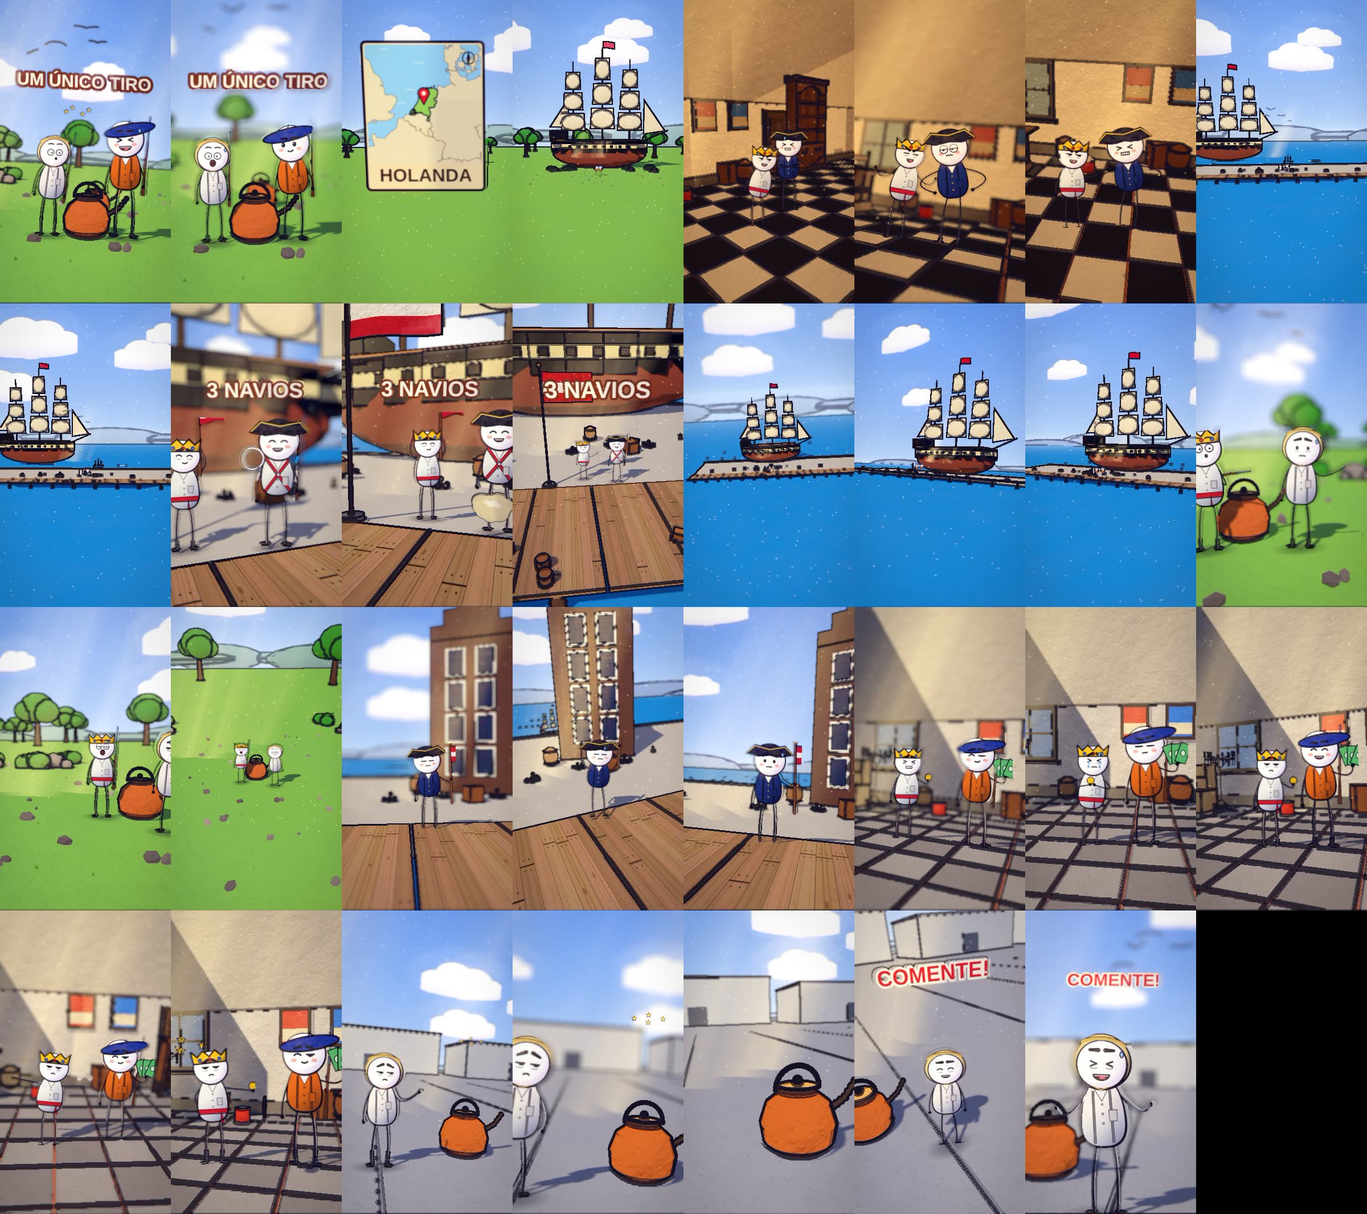
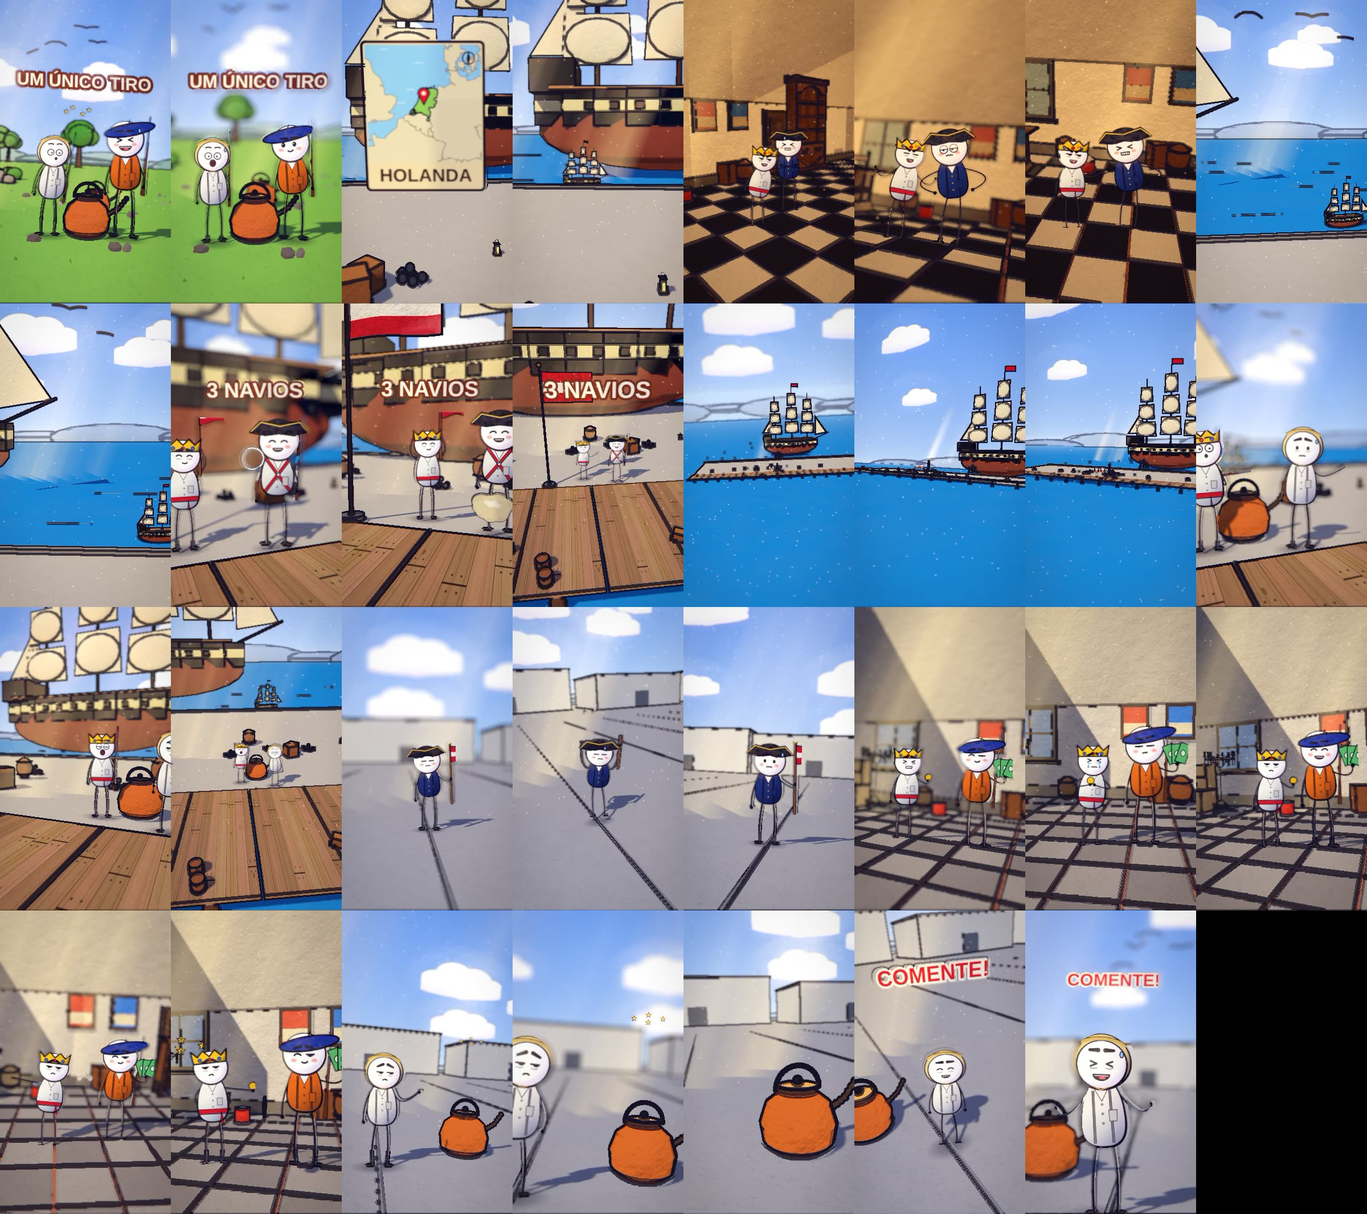
chaleira1784: variedade de cenario
Claude-Session: https://claude.ai/code/session_01HE8Dy2wiQov2uhW6ZYikBX

diff --git a/ferramenta-shorts/stories/chaleira1784/spec.js b/ferramenta-shorts/stories/chaleira1784/spec.js
@@ -12,7 +12,7 @@ const SPEC = {
     HOL: (v = 0, e = {}) => ({ _id: "hol", jacket: "#d9742a", pants: "#27408b", boots: "#1b1b1f", hat: "beret", cap: "#27408b", rifle: true, skin: ["#ffe2c2", "#f5c9a0", "#ecd0b6", "#c99067"][v % 4], ...(((v + 227) % 6 === 4 && true) ? { glasses: true } : {}), ...(([1, 5].includes((v + 227) % 6) && false) ? { beard: ['#3a2a1f', '#6b4a2a', '#8a8a86'][(v + 3) % 3] } : {}), ...((((v + 227) % 6 === 3) && true) ? { moustache: ['#4a3020', '#2a201a', '#8a8a86'][v % 3] } : {}), ...e }),
     COZ: (v = 0, e = {}) => ({ _id: "coz", jacket: "#f6f0e6", pants: "#3b3f52", boots: "#2a2218", hat: "bonnet", build: "stout", skin: ["#ffe2c2", "#f5c9a0", "#ecd0b6", "#c99067"][v % 4], ...(((v + 236) % 6 === 4 && true) ? { glasses: true } : {}), ...(([1, 5].includes((v + 236) % 6) && true) ? { beard: ['#3a2a1f', '#6b4a2a', '#8a8a86'][(v + 3) % 3] } : {}), ...((((v + 236) % 6 === 3) && true) ? { moustache: ['#4a3020', '#2a201a', '#8a8a86'][v % 3] } : {}), ...e }),
     MAR: (v = 0, e = {}) => ({ _id: "mar", jacket: "#d9742a", pants: "#27408b", boots: "#1b1b1f", hat: "beret", cap: "#27408b", skin: ["#ffe2c2", "#f5c9a0", "#ecd0b6", "#c99067"][v % 4], ...(((v + 224) % 6 === 4 && true) ? { glasses: true } : {}), ...(([1, 5].includes((v + 224) % 6) && true) ? { beard: ['#3a2a1f', '#6b4a2a', '#8a8a86'][(v + 3) % 3] } : {}), ...((((v + 224) % 6 === 3) && true) ? { moustache: ['#4a3020', '#2a201a', '#8a8a86'][v % 3] } : {}), ...e }) },
-  assets: ["buildings/shop", "cannon", "kit/coin", "kit/kettle", "kit/navio_fragata", "kit/room_europa_stone", "kit/room_holanda_stone", "mk/Barrel", "mk/Bed_Twin1", "mk/Bookcase_2", "mk/Cabinet", "mk/CandleStick_Stand", "mk/Chair_1", "mk/Chest_Wood", "mk/Nightstand_Shelf", "mk/Table_Large", "war/flagpole"],
+  assets: ["cannon", "kit/coin", "kit/kettle", "kit/navio_fragata", "kit/room_europa_stone", "kit/room_holanda_stone", "mk/Barrel", "mk/Bed_Twin1", "mk/Bookcase_2", "mk/Cabinet", "mk/CandleStick_Stand", "mk/Chair_1", "mk/Chest_Wood", "mk/Nightstand_Shelf", "mk/Table_Large", "war/flagpole"],
   kicks: [{ f: WS(6), a: 0.032 }, { f: WS(88), a: 0.032 }], flashes: [],
   shots: [
     S('b0', A[0], A[1] - 1, X_loc_campo, "day", { h: 2.3, d0: 9.8, d1: 8.8, az0: -6, az1: 8, punches: [{ f: WS(6), amt: 0.16, dur: 20 }], vary: false, hero: { hero: 'any', frame: 'medium', minH: 0.07, main: 2 }, shots: [WS(6), WS(6)], actors: [_MA(pp(X_loc_campo, "COZ", 0, -1.0, 1.3, "shock", { pose: 'react', inter: { k: 'nod', a: Math.round(A[0] + (A[1] - 1 - (A[0])) * 0.12), b: Math.round(A[0] + (A[1] - 1 - (A[0])) * 0.82), dir: 1, n: 2, ph: 0 } }), { over: { rifle: true } }), pp(X_loc_campo, "HOL", 0, 1.0, 1.0, "grin", { pose: 'talk', inter: { k: 'lean', a: Math.round(A[0] + (A[1] - 1 - (A[0])) * 0.2), b: Math.round(A[0] + (A[1] - 1 - (A[0])) * 0.9), dir: -1, n: 2, ph: 3.14 } })], props: [{ asset: "kit/kettle", at: [X_loc_campo + 0.0, 0.7], s: 1.15, drop: false }, { asset: "kit/kettle", at: [X_loc_campo + 0.0, -2.3], s: 1.0, drop: false }], fx: [{ k: 'stars', a: A[0] + 6, b: A[0] + 40, at: [X_loc_campo + 0.0, DK + 1.6, 2.5], s: 0.8 }, { k: 'birds', a: A[0], b: A[1] - 1, at: [X_loc_campo, DK + 4.5, -30], n: 4, dir: 1, off: 8 }, txt(X_loc_campo, WS(0, -2), A[1] - 1, "UM ÚNICO TIRO", '#fff6e0', '#7a3a1c', 4.5, { s: 1.5, up: 0.46 }), { k: 'flash', a: WS(6), b: WS(6) + 8, at: [X_loc_campo + -0.55, DK - 0.55, 1.4], s: 1.6 }, { k: 'puff', a: WS(6) + 3, b: WS(6) + 24, at: [X_loc_campo + -0.8, DK + 1.9, 1.4], s: 0.5 }, { k: 'flash', a: WS(6), b: WS(6) + 10, at: [X_loc_campo + 0.55, DK - 0.55, 1.7], s: 1.6 }] }),
@@ -22,7 +22,7 @@ const SPEC = {
     { ...{ ...S('b4', A[4], Math.round(A[4] + (A[5] - 1 + 1 - (A[4])) * 0.3) - 1, X, "day", { h: 6.0, d0: 123.4, d1: 117.5, el: 11, cx: 0.0, cz: -8.2, hero: { hero: 'none', wide: true }, vary: false, nocut: true, trans: 'dissolve', actors: [_MA(pp(X, "IMP", 0, -1.0, -0.4, "smug", { over: { hold: "flag" } }), { gests: [[WS(63) - 8, Math.max(WS(63) + 14, WS(69) - 5), 'lift'], [WS(69) - 8, WS(69) + 46, 'point']] }), pp(X, "AUS", 0, 1.0, 0.2, "grin")], props: [{ asset: "kit/navio_fragata", at: [X + 0.0, -18.2], s: 7.06, fixo: true, drop: false }, { asset: "war/flagpole", at: [X + -3.1, 0.2], s: 1.3 }], fx: [{ k: 'birds', a: A[4], b: A[5] - 1, at: [X, DK + 6.0, -30], n: 5, dir: 1, off: 8 }, txt(X, WS(61, -2), A[5] - 1, "3 NAVIOS", '#fff6e0', '#7a3a1c', 4.8, { s: 1.5, up: 0.42 }), { k: "ring", a: A[4] + 12, b: A[4] + 38, at: [X, DK + 0.5, 1.2], s: 1.1 }, { k: "dust", a: A[4] + 40, b: A[4] + 66, at: [X + 0.9, DK + 0.12, 1.0], s: 0.75 }] }), nocut: true }, cam: [{ f: A[4], at: [X + 0.0, DK + 2.2, 0.5], d: 8.5, az: -26, el: 2, fov: 44 }, { f: Math.round(A[4] + (A[5] - 1 + 1 - (A[4])) * 0.3) - 1, at: [X + 1.0, DK + 2.2, 0.5], d: 7.4, az: -14, el: 3, fov: 44 }], nocut: true, vary: false }, { ...{ ...S('b4_1', Math.round(A[4] + (A[5] - 1 + 1 - (A[4])) * 0.3), Math.round(A[4] + (A[5] - 1 + 1 - (A[4])) * 0.55) - 1, X, "day", { h: 6.0, d0: 123.4, d1: 117.5, el: 11, cx: 0.0, cz: -8.2, hero: { hero: 'none', wide: true }, vary: false, nocut: true, trans: 'cut', actors: [_MA(pp(X, "IMP", 0, -1.0, -0.4, "smug", { over: { hold: "flag" } }), { gests: [[WS(63) - 8, Math.max(WS(63) + 14, WS(69) - 5), 'lift'], [WS(69) - 8, WS(69) + 46, 'point']] }), pp(X, "AUS", 0, 1.0, 0.2, "grin")], props: [{ asset: "kit/navio_fragata", at: [X + 0.0, -18.2], s: 7.06, drop: false, fixo: true, drop: false }, { asset: "war/flagpole", at: [X + -3.1, 0.2], s: 1.3, drop: false }], fx: [{ k: 'birds', a: A[4], b: A[5] - 1, at: [X, DK + 6.0, -30], n: 5, dir: 1, off: 8 }, txt(X, WS(61, -2), A[5] - 1, "3 NAVIOS", '#fff6e0', '#7a3a1c', 4.8, { s: 1.5, up: 0.42 }), { k: "ring", a: A[4] + 12, b: A[4] + 38, at: [X, DK + 0.5, 1.2], s: 1.1 }, { k: "dust", a: A[4] + 40, b: A[4] + 66, at: [X + 0.9, DK + 0.12, 1.0], s: 0.75 }] }), nocut: true }, cam: [{ f: Math.round(A[4] + (A[5] - 1 + 1 - (A[4])) * 0.3), at: [X + -6.0, DK + 1.8, 0.0], d: 11, az: 30, el: 5, fov: 46 }, { f: Math.round(A[4] + (A[5] - 1 + 1 - (A[4])) * 0.55) - 1, at: [X + 4.0, DK + 1.8, 0.0], d: 11, az: 18, el: 5, fov: 46, ease: "lin" }], nocut: true, vary: false, glide: true }, { ...{ ...S('b4_2', Math.round(A[4] + (A[5] - 1 + 1 - (A[4])) * 0.55), A[5] - 1, X, "day", { h: 6.0, d0: 123.4, d1: 117.5, el: 11, cx: 0.0, cz: -8.2, hero: { hero: 'none', wide: true }, vary: false, nocut: true, trans: 'cut', actors: [_MA(pp(X, "IMP", 0, -1.0, -0.4, "smug", { over: { hold: "flag" } }), { gests: [[WS(63) - 8, Math.max(WS(63) + 14, WS(69) - 5), 'lift'], [WS(69) - 8, WS(69) + 46, 'point']] }), pp(X, "AUS", 0, 1.0, 0.2, "grin")], props: [{ asset: "kit/navio_fragata", at: [X + 0.0, -18.2], s: 7.06, drop: false, fixo: true, drop: false }, { asset: "war/flagpole", at: [X + -3.1, 0.2], s: 1.3, drop: false }], fx: [{ k: 'birds', a: A[4], b: A[5] - 1, at: [X, DK + 6.0, -30], n: 5, dir: 1, off: 8 }, txt(X, WS(61, -2), A[5] - 1, "3 NAVIOS", '#fff6e0', '#7a3a1c', 4.8, { s: 1.5, up: 0.42 }), { k: "ring", a: A[4] + 12, b: A[4] + 38, at: [X, DK + 0.5, 1.2], s: 1.1 }, { k: "dust", a: A[4] + 40, b: A[4] + 66, at: [X + 0.9, DK + 0.12, 1.0], s: 0.75 }] }), nocut: true }, cam: [{ f: Math.round(A[4] + (A[5] - 1 + 1 - (A[4])) * 0.55), at: [X + 0.0, DK + 1.4, 0.0], d: 15, az: 8, el: 12, fov: 48 }, { f: A[5] - 1, at: [X + 0.0, DK + 1.0, -3.0], d: 34, az: -16, el: 30, fov: 48 }], nocut: true, vary: false, glide: true },
     S('b5', A[5], A[6] - 1, X, "day", { h: 6.0, d0: 123.4, d1: 117.5, az0: 16, az1: 30, cx: 0.0, cz: -8.2, punches: [{ f: WS(83), amt: 0.16, dur: 20 }], vary: false, hero: { hero: 'any', frame: 'medium', minH: 0.07, main: 2 }, trans: 'dissolve', shots: [WS(83)], actors: [_MA(_MA(pp(X, "MAR", 0, -1.0, 1.3, "stern", { pose: 'talk', inter: { k: 'lunge', a: Math.round(A[5] + (A[6] - 1 - (A[5])) * 0.12), b: Math.round(A[5] + (A[6] - 1 - (A[5])) * 0.82), dir: 1, n: 2, ph: 0 } }), { over: { rifle: true } }), { gests: [[WS(81) - 8, Math.max(WS(81) + 14, WS(83) - 5), 'cross']] }), pp(X, "MAR", 1, 1.0, 1.0, "angry", { pose: 'talk', inter: { k: 'nod', a: Math.round(A[5] + (A[6] - 1 - (A[5])) * 0.2), b: Math.round(A[5] + (A[6] - 1 - (A[5])) * 0.9), dir: -1, n: 2, ph: 3.14 } })], props: [{ asset: "cannon", at: [X + 3.0, 0.6], s: 2.2 }, { asset: "kit/navio_fragata", at: [X + 12, -32], s: 7.06, drop: false }], fx: [{ k: 'burst', a: A[5] + 60, at: [X + -1.0, DK + 1.8, 3.2], s: 1.2 }, { k: 'flash', a: WS(83), b: WS(83) + 10, at: [X + 0.55, DK - 0.55, 1.7], s: 1.6 }] }),
     { ...{ ...S('b6', A[6], Math.round(A[6] + (A[7] - 1 + 1 - (A[6])) * 0.3) - 1, X, "day", { h: 2.6, d0: 12.1, d1: 11.5, el: 11, fov: 46, az0: -38, az1: 32, cx: 0.0, cz: -0.6, punches: [{ f: WS(88), amt: 0.16, dur: 20 }], hero: { hero: 'none', wide: true }, vary: false, nocut: true, trans: 'dissolve', shots: [WS(88)], actors: [_MA(pp(X, "IMP", 0, -1.0, -0.4, "surprised"), { over: { rifle: true } }), pp(X, "COZ", 0, 1.0, 0.2, "scared")], props: [{ asset: "kit/kettle", at: [X + 0.0, -1.2], s: 1.2, fixo: true, drop: false }, { asset: "kit/navio_fragata", at: [X + -15, -36], s: 7.06, drop: false }], fx: [{ k: 'birds', a: A[6], b: A[7] - 1, at: [X, DK + 4.5, -30], n: 4, dir: -1, off: 8 }, { k: 'burst', a: A[6] + 20, at: [X + -1.0, DK + 1.8, 3.2], s: 1.2 }, { k: "puff", a: A[6] + 26, b: A[6] + 52, at: [X + 0.9, DK + 0.12, 1.0], s: 0.75 }, { k: 'burst', a: WS(88), b: WS(88) + 22, at: [X + -1.0, DK + 1.8, 3.0], s: 1.7 }, { k: 'flash', a: WS(88), b: WS(88) + 10, at: [X + 0.55, DK - 0.55, 1.7], s: 1.6 }] }), nocut: true }, cam: [{ f: A[6], at: [X + 0.0, DK + 2.2, 0.5], d: 8.5, az: -26, el: 2, fov: 44 }, { f: Math.round(A[6] + (A[7] - 1 + 1 - (A[6])) * 0.3) - 1, at: [X + 1.0, DK + 2.2, 0.5], d: 7.4, az: -14, el: 3, fov: 44 }], nocut: true, vary: false }, { ...{ ...S('b6_1', Math.round(A[6] + (A[7] - 1 + 1 - (A[6])) * 0.3), Math.round(A[6] + (A[7] - 1 + 1 - (A[6])) * 0.55) - 1, X, "day", { h: 2.6, d0: 12.1, d1: 11.5, el: 11, fov: 46, az0: -38, az1: 32, cx: 0.0, cz: -0.6, punches: [{ f: WS(88), amt: 0.16, dur: 20 }], hero: { hero: 'none', wide: true }, vary: false, nocut: true, trans: 'cut', shots: [WS(88)], actors: [_MA(pp(X, "IMP", 0, -1.0, -0.4, "surprised"), { over: { rifle: true } }), pp(X, "COZ", 0, 1.0, 0.2, "scared")], props: [{ asset: "kit/kettle", at: [X + 0.0, -1.2], s: 1.2, drop: false, fixo: true, drop: false }, { asset: "kit/navio_fragata", at: [X + -15, -36], s: 7.06, drop: false }], fx: [{ k: 'birds', a: A[6], b: A[7] - 1, at: [X, DK + 4.5, -30], n: 4, dir: -1, off: 8 }, { k: 'burst', a: A[6] + 20, at: [X + -1.0, DK + 1.8, 3.2], s: 1.2 }, { k: "puff", a: A[6] + 26, b: A[6] + 52, at: [X + 0.9, DK + 0.12, 1.0], s: 0.75 }, { k: 'burst', a: WS(88), b: WS(88) + 22, at: [X + -1.0, DK + 1.8, 3.0], s: 1.7 }, { k: 'flash', a: WS(88), b: WS(88) + 10, at: [X + 0.55, DK - 0.55, 1.7], s: 1.6 }] }), nocut: true }, cam: [{ f: Math.round(A[6] + (A[7] - 1 + 1 - (A[6])) * 0.3), at: [X + -6.0, DK + 1.8, 0.0], d: 11, az: 30, el: 5, fov: 46 }, { f: Math.round(A[6] + (A[7] - 1 + 1 - (A[6])) * 0.55) - 1, at: [X + 4.0, DK + 1.8, 0.0], d: 11, az: 18, el: 5, fov: 46, ease: "lin" }], nocut: true, vary: false, glide: true }, { ...{ ...S('b6_2', Math.round(A[6] + (A[7] - 1 + 1 - (A[6])) * 0.55), A[7] - 1, X, "day", { h: 2.6, d0: 12.1, d1: 11.5, el: 11, fov: 46, az0: -38, az1: 32, cx: 0.0, cz: -0.6, punches: [{ f: WS(88), amt: 0.16, dur: 20 }], hero: { hero: 'none', wide: true }, vary: false, nocut: true, trans: 'cut', shots: [WS(88)], actors: [_MA(pp(X, "IMP", 0, -1.0, -0.4, "surprised"), { over: { rifle: true } }), pp(X, "COZ", 0, 1.0, 0.2, "scared")], props: [{ asset: "kit/kettle", at: [X + 0.0, -1.2], s: 1.2, drop: false, fixo: true, drop: false }, { asset: "kit/navio_fragata", at: [X + -15, -36], s: 7.06, drop: false }], fx: [{ k: 'birds', a: A[6], b: A[7] - 1, at: [X, DK + 4.5, -30], n: 4, dir: -1, off: 8 }, { k: 'burst', a: A[6] + 20, at: [X + -1.0, DK + 1.8, 3.2], s: 1.2 }, { k: "puff", a: A[6] + 26, b: A[6] + 52, at: [X + 0.9, DK + 0.12, 1.0], s: 0.75 }, { k: 'burst', a: WS(88), b: WS(88) + 22, at: [X + -1.0, DK + 1.8, 3.0], s: 1.7 }, { k: 'flash', a: WS(88), b: WS(88) + 10, at: [X + 0.55, DK - 0.55, 1.7], s: 1.6 }] }), nocut: true }, cam: [{ f: Math.round(A[6] + (A[7] - 1 + 1 - (A[6])) * 0.55), at: [X + 0.0, DK + 1.4, 0.0], d: 15, az: 8, el: 12, fov: 48 }, { f: A[7] - 1, at: [X + 0.0, DK + 1.0, -3.0], d: 34, az: -16, el: 30, fov: 48 }], nocut: true, vary: false, glide: true },
-    S('b7', A[7], A[8] - 1, X, "day", { h: 2.5, d0: 11.4, d1: 10.2, az0: -14, az1: 4, vary: false, hero: { hero: 'any', frame: 'medium', minH: 0.07, main: 1 }, trans: 'dissolve', actors: [_MA(pp(X, "GEN", 0, 0.0, 1.3, "scared", { over: { hold: "flag" } }), { gests: [[WS(106) - 8, WS(106) + 46, 'up']] })], props: [{ asset: "buildings/shop", at: [X + 4.8, -11.0], s: 1.05, ry: -0.35, drop: false }], fx: [{ k: 'stars', a: WS(106) + 4, b: WS(106) + 34, at: [X + 0.0, DK + 3.0, 1.3], s: 0.6 }] }),
+    S('b7', A[7], A[8] - 1, X_loc_patio, "day", { h: 2.5, d0: 11.4, d1: 10.2, az0: -14, az1: 4, vary: false, hero: { hero: 'any', frame: 'medium', minH: 0.07, main: 1 }, trans: 'dissolve', actors: [_MA(pp(X_loc_patio, "GEN", 0, 0.0, 1.3, "scared", { over: { hold: "flag" } }), { gests: [[WS(106) - 8, WS(106) + 46, 'up']] })], fx: [{ k: 'stars', a: WS(106) + 4, b: WS(106) + 34, at: [X_loc_patio + 0.0, DK + 3.0, 1.3], s: 0.6 }] }),
     S('b8', A[8], A[9] - 1, X_hall, "day", { h: 2.3, d0: 9.8, d1: 8.8, az0: 10, az1: 4, punches: [{ f: WS(132), amt: 0.11, dur: 20 }], vary: false, hero: { hero: 'any', frame: 'medium', minH: 0.07, main: 2 }, trans: 'dissolve', actors: [_MA(_MA(pp(X_hall, "IMP", 0, -1.0, 1.3, "sad", { over: { hold: "coin" }, inter: { k: 'step', a: Math.round(A[8] + (A[9] - 1 - (A[8])) * 0.12), b: Math.round(A[8] + (A[9] - 1 - (A[8])) * 0.82), dir: 1, n: 2, ph: 0 } }), { gests: [[WS(132) - 8, Math.max(WS(132) + 14, WS(136) - 5), 'push'], [WS(136) - 8, WS(136) + 46, 'reach']] }), { inters: [{ k: 'shove', a: WS(132) - 10, b: WS(132) + 24, dir: 1, n: 1, ph: 0 }] }), _MA(pp(X_hall, "HOL", 0, 1.0, 1.0, "smug", { over: { hold: "money" }, inter: { k: 'nod', a: Math.round(A[8] + (A[9] - 1 - (A[8])) * 0.2), b: Math.round(A[8] + (A[9] - 1 - (A[8])) * 0.9), dir: -1, n: 2, ph: 3.14 } }), { inters: [{ k: 'stagger', a: WS(132) - 6, b: WS(132) + 32, dir: 1, n: 1, ph: 0 }] })], props: [{ asset: "kit/room_europa_stone", at: [X_hall, 0], s: 1, drop: false }, { asset: "mk/Cabinet", at: [X_hall + -7.2, -3.3], s: 2.3, drop: false }, { asset: "mk/Bed_Twin1", at: [X_hall + 7.0, -2.4], s: 2.1, drop: false }, { asset: "mk/Nightstand_Shelf", at: [X_hall + 4.6, -3.2], s: 2.2, drop: false }, { asset: "mk/CandleStick_Stand", at: [X_hall + -4.8, -2.8], s: 2.2, drop: false }, { asset: "mk/Barrel", at: [X_hall + -7.4, 0.8], s: 2.0, drop: false }, { asset: 'kit/coin', a: WS(136) - 2, b: WS(136) + 50, at: [X_hall + 0.25, 1.9], y: (f) => DK + 1.5 + 0.25 * Math.sin(f * 0.2), spinY: 2, s: 0.35, drop: false }], fx: [{ k: "stars", a: WS(136), b: WS(136) + 28, at: [X_hall + -1.0, DK + 0.5, 2.5], s: 1.1 }, { k: 'puff', a: WS(132), b: WS(132) + 20, at: [X_hall + 0.0, DK + 1.8, 1.7], s: 0.9 }] }),
     S('b9', A[9], Math.round(A[9] + (A[10] - 1 + 1 - (A[9])) * 0.36) - 1, X_loc_patio, "day", { h: 2.5, d0: 8.4, d1: 8.0, az0: -32, az1: -18, cx: 1.2, cz: 0.1, hero: { hero: 'any', frame: 'medium', minH: 0.07, main: 1 }, trans: 'dissolve', actors: [pp(X_loc_patio, "COZ", 0, 0.0, 1.3, "sad", { pose: 'talk' })], props: [{ asset: "kit/kettle", at: [X_loc_patio + 2.4, 0.2], s: 1.2, fixo: true, drop: false }], fx: [{ k: 'stars', a: A[9] + 6, b: A[9] + 40, at: [X_loc_patio + 2.4, DK + 1.6, 0.7], s: 0.8 }] }), { ...S('b9_d', Math.round(A[9] + (A[10] - 1 + 1 - (A[9])) * 0.36), Math.round(A[9] + (A[10] - 1 + 1 - (A[9])) * 0.6) - 1, X_loc_patio, "day", { h: 2.5, d0: 8.4, d1: 8.0, az0: -32, az1: -18, cx: 1.2, cz: 0.1, hero: { hero: 'none', detalhe: true }, trans: 'cut', actors: [pp(X_loc_patio, "COZ", 0, 0.0, 1.3, "sad", { pose: 'stand' })], props: [{ asset: "kit/kettle", at: [X_loc_patio + 2.4, 0.2], s: 1.2, drop: false, fixo: true, drop: false }], fx: [{ k: 'stars', a: A[9] + 6, b: A[9] + 40, at: [X_loc_patio + 2.4, DK + 1.6, 0.7], s: 0.8 }] }), cam: [{ f: Math.round(A[9] + (A[10] - 1 + 1 - (A[9])) * 0.36), at: [X_loc_patio + 2.4, DK + 0.9, 0.2], d: 5.86, az: -14, el: 7, fov: 44 }, { f: Math.round(A[9] + (A[10] - 1 + 1 - (A[9])) * 0.6) - 1, at: [X_loc_patio + 2.4, DK + 0.9, 0.2], d: 5.17, az: -8, el: 6, fov: 44 }], nocut: true, vary: false, glide: true, glideN: 34 }, { ...S('b9_v', Math.round(A[9] + (A[10] - 1 + 1 - (A[9])) * 0.6), A[10] - 1, X_loc_patio, "day", { h: 2.5, d0: 8.4, d1: 8.0, az0: -32, az1: -18, cx: 1.2, cz: 0.1, hero: { hero: 'any', frame: 'medium', minH: 0.07, main: 1 }, trans: 'cut', actors: [pp(X_loc_patio, "COZ", 0, 0.0, 1.3, "sad", { pose: 'talk' })], props: [{ asset: "kit/kettle", at: [X_loc_patio + 2.4, 0.2], s: 1.2, drop: false, fixo: true, drop: false }], fx: [{ k: 'stars', a: A[9] + 6, b: A[9] + 40, at: [X_loc_patio + 2.4, DK + 1.6, 0.7], s: 0.8 }] }), glide: true, glideN: 34 },
     S('b10', A[10], A[11] - 1, X_loc_patio, "day", { h: 2.4, d0: 6.4, d1: 5.6, az0: -6, az1: 8, hero: { hero: 'any', frame: 'medium', minH: 0.07, main: 1 }, trans: 'dissolve', actors: [pp(X_loc_patio, "COZ", 0, 0.0, 1.3, "grin", { pose: 'talk' })], props: [{ asset: "kit/kettle", at: [X_loc_patio + -1.7, -0.5], s: 1.3, drop: false }], fx: [{ k: 'stars', a: A[10] + 6, b: A[10] + 40, at: [X_loc_patio + -1.7, DK + 1.6, 0.0], s: 0.8 }, { k: 'birds', a: A[10], b: A[11] - 1, at: [X_loc_patio, DK + 6.0, -30], n: 5, dir: -1, off: 8 }, txt(X_loc_patio, WS(147, -2), A[11] - 1, "COMENTE!", '#d8282f', '#fff6e0', 4.6, { s: 1.5, up: 0.55 })] })

diff --git a/ferramenta-shorts/stories/chaleira1784/cronograma.md b/ferramenta-shorts/stories/chaleira1784/cronograma.md
@@ -1,6 +1,6 @@
 # CRONOGRAMA - Guerras Inusitadas EP 10 - A Guerra da Chaleira
 
-Gerado em 24/11 16:42 | 11 cenas | metricas: acoes_encenadas 100%, acoes_chave_com_efeito 100%, explicacoes_cobertas 100%, cenario_e_epoca_ok 100%
+Gerado em 24/11 16:43 | 11 cenas | metricas: acoes_encenadas 100%, acoes_chave_com_efeito 100%, explicacoes_cobertas 100%, cenario_e_epoca_ok 100%
 
 ## 1. Plano de cenas (o que cada frase vai mostrar)
 
@@ -13,7 +13,7 @@ b3 | simples | harbor | wide | IMP | - | navio_fragata, navios de guerra ao fund
 b4 | chave | harbor | crowd | IMP, AUS | - | navio_fragata, flagpole | corpo: tropa/personagens encenam a batalha; emissao: claroes de tiro, fumaca e poeira; luz: clarao; camera: 4 cameras em | O maior levava a bandeira do imperador e seguia na frente.
 b5 | simples | harbor | two | MAR, MAR | - | cannon, navio_fragata | - | Acontece que o navio de guerra holandês Dolfijn estava esperando, e di
 b6 | chave | harbor | orbit | IMP, COZ | - | kettle, navios de guerra ao fundo, no tamanho real | corpo: tropa/personagens encenam a batalha; emissao: claroes de tiro, fumaca e poeira; luz: clarao; camera: 4 cameras em | A bala acertou e destruiu uma chaleira de sopa no convés do navio do i
-b7 | simples | harbor | group | GEN | - | - | - | O navio austríaco se rendeu na hora, sem trocar nem um tiro a mais.
+b7 | simples | loc_patio | group | GEN | - | - | - | O navio austríaco se rendeu na hora, sem trocar nem um tiro a mais.
 b8 | simples | interior pedra | two | IMP, HOL | - | - | - | Depois, a França mediou a paz, em mil setecentos e oitenta e cinco. O 
 b9 | simples | loc_patio | group | COZ | - | kettle | - | O único prejuízo do dia foi o almoço.
 b10 | simples | loc_patio | close | COZ | - | - | - | Agora não deixe de comentar: qual deve ser o tema do próximo vídeo?
@@ -25,7 +25,7 @@ N | Etapa | O que confere | Estado | Proximo passo
 1 | Roteiro e 4 folhas | folha 1 (roteiro), 2 (producao), 3 (acao) e 4 (pesquisa) geradas; triagem de cada frase | FEITO | 
 2 | Pesquisa de campo | cada item do raio-X com referencia; quadro de prints olhado (9/16 itens) | PENDENTE | python3 pesquisar.py chaleira1784
 3 | Modelagem do que falta | todo objeto das cenas existe na biblioteca 3D, da epoca e no tamanho real | REFAZER (a etapa anterior mudou) | 
-4 | Travas do roteiro | folha 2 com 0 risco e folha 3 com 0 acao faltando (riscos agora: 1) | BLOQUEADO (etapa anterior pendente) | corrigir o roteiro conforme a folha 2
+4 | Travas do roteiro | folha 2 com 0 risco e folha 3 com 0 acao faltando (riscos agora: 0) | REFAZER (a etapa anterior mudou) | corrigir o roteiro conforme a folha 2
 5 | Voz | narracao neural gerada e tempos por palavra | REFAZER (a etapa anterior mudou) | 
 6 | Estilo e enquadramento | autoajuste de luz/cor e ajuste de camera de cada tomada | REFAZER (a etapa anterior mudou) | 
 7 | Gates | camera OK, todas as tomadas OK, estilo OK | REFAZER (a etapa anterior mudou) | 

diff --git a/ferramenta-shorts/stories/chaleira1784/folha2_producao.md b/ferramenta-shorts/stories/chaleira1784/folha2_producao.md
@@ -73,7 +73,7 @@ Coordenadas de cada cena para modelagem, animacao e camera, com os RISCOS que o 
 - RISCOS: nenhum
 
 ## Cena b7 - O navio austríaco se rendeu na hora, sem trocar nem um tiro a mais.
-- Cenario: harbor | luz: day | clima: limpo
+- Cenario: loc_patio | luz: day | clima: limpo
 - Camera: group = plano de grupo (corpo inteiro); angulo muda a cada ~2 s
 - Takes: 3 take(s) de ~1,8 s, deslizando de um para o outro: direita baixa -> frente -> 3/4 pela direita, mais perto e mais baixo
 - Personagens principais (1): GEN (variante 0, expressao scared, segura flag)
@@ -126,11 +126,9 @@ cannon | b5 | pronto | conferir na folha de contato se le bem; se parecer caixot
 ## Video inteiro
 - Objeto heroi: kit/kettle | grandes momentos: b4, b6 | planos abertos: 4 | mistura: close 11% | medio 62% | aberto 26% | detalhe 1%
 - Interacoes: b0 o outro se aproxima, b2 discutir, b5 insiste, b8 entregar
-- RISCOS GERAIS: 
-  - pouca variedade de cenario ({'loc_campo': 1, 'harbor': 6, 'interior pedra': 2, 'loc_patio': 2}): o video fica parecendo todos os outros -> CORRECAO: pelo menos 3 lugares e nenhum em mais da metade das cenas: troque "set"/"interior" de algumas cenas (lugares: outback, countryside, arctic, palace, harbor, mountain, medieval, jungle, hall, stadium, street, loc_pista, loc_patio, loc_deserto, loc_campo, loc_montanha, loc_cidade, loc_estudio | interior: madeira, pedra, loja)
+- RISCOS GERAIS: nenhum
 
-## RESUMO: 1 risco(s) em aberto
-- geral: pouca variedade de cenario ({'loc_campo': 1, 'harbor': 6, 'interior pedra': 2, 'loc_patio': 2}): o video fica parecendo todos os outros
+## RESUMO: 0 risco(s) em aberto - pode renderizar
 
 ## Reparos depois do render
 - Defeito em poucas cenas e narracao igual: corrija o beats.json e `./refazer.sh chaleira1784 bN bM` (so essas cenas).

diff --git a/ferramenta-shorts/stories/chaleira1784/preproducao.md b/ferramenta-shorts/stories/chaleira1784/preproducao.md
@@ -11,7 +11,7 @@ b3 | harbor | wide | 1 | parados (so fala e pisca) | kit/navio_fragata, navios d
 b4 | harbor | crowd | 2 | encena, batalha | kit/navio_fragata, war/flagpole | - | -
 b5 | harbor | two | 2 | conversar, INTERAGEM: insiste | cannon, kit/navio_fragata | - | -
 b6 | harbor | orbit | 2 | encena, batalha | kit/kettle, navios de guerra ao fundo, no tamanho real | - | -
-b7 | harbor | group | 1 | encena | - | flag | -
+b7 | loc_patio | group | 1 | encena | - | flag | -
 b8 | interior pedra | two | 2 | encena, INTERAGEM: entregar | - | money | -
 b9 | loc_patio | group | 1 | conversar | kit/kettle | - | -
 b10 | loc_patio | close | 1 | conversar | - | - | -

diff --git a/ferramenta-shorts/stories/chaleira1784/folha1_roteiro.md b/ferramenta-shorts/stories/chaleira1784/folha1_roteiro.md
@@ -67,7 +67,7 @@ Voz: pt-BR-AntonioNeural +10% | Clima do video: playful | Cenario base: harbor |
 
 ## Cena b7  (~4.8 s)
 - Narracao: O navio austríaco se rendeu na hora, sem trocar nem um tiro a mais.
-- Som ambiente: sea
+- Som ambiente: silencio/sala
 - Efeitos sonoros marcados: -
 - Efeito + som nas palavras-chave: encena: rende (up) @4 -> acao + som de efeito
 - Efeito visual marcado: -
